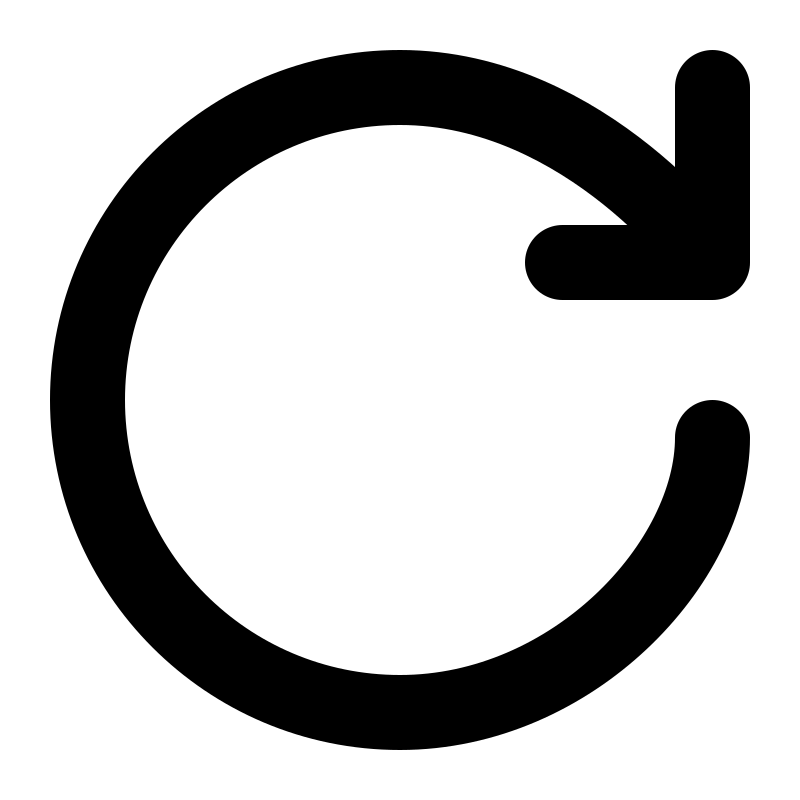
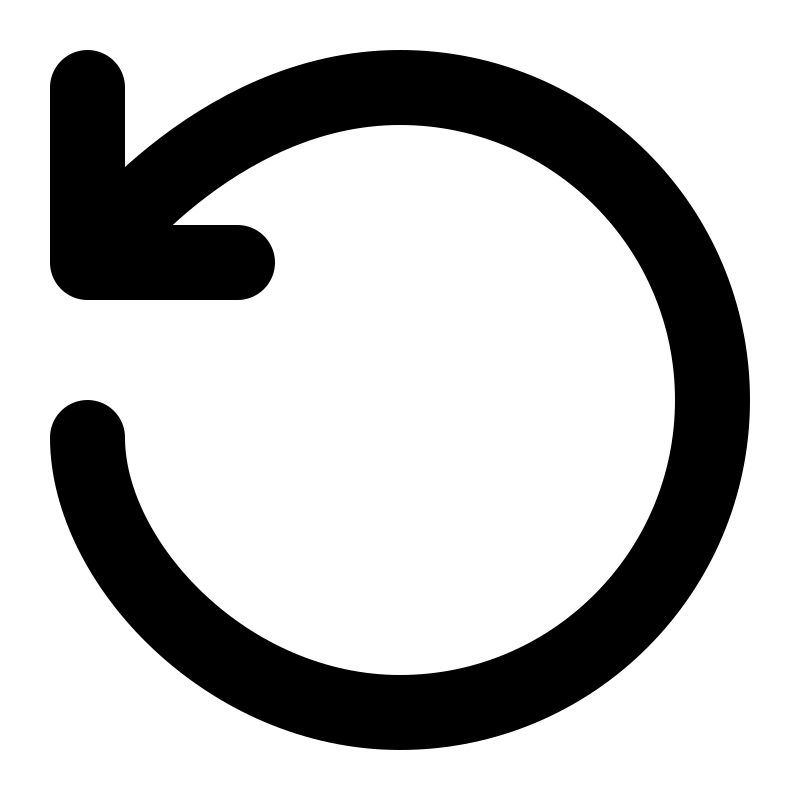
Debug

diff --git a/src/main/java/com/example/demo/client/GameController.java b/src/main/java/com/example/demo/client/GameController.java
@@ -1,5 +1,6 @@
 package com.example.demo.client;
 
+import javafx.application.Platform;
 import javafx.beans.value.ChangeListener;
 import javafx.fxml.FXML;
 import javafx.fxml.Initializable;
@@ -8,7 +9,6 @@ import javafx.scene.image.Image;
 import javafx.scene.image.ImageView;
 import javafx.scene.layout.BorderPane;
 import javafx.scene.layout.HBox;
-import javafx.scene.layout.StackPane;
 import javafx.scene.layout.VBox;
 import org.json.JSONArray;
 import org.json.JSONObject;
@@ -20,44 +20,22 @@ import java.util.List;
 import java.util.ResourceBundle;
 
 public class GameController implements Initializable {
-
-    @FXML
-    private BorderPane rootPane;
-    @FXML
-    private VBox topContainer;
-    @FXML
-    private HBox bottomContainer;
-    @FXML
-    private HBox playerHand;
-    @FXML
-    private VBox leftHand;
-    @FXML
-    private VBox rightHand;
-    @FXML
-    private HBox topHand;
-    @FXML
-    private ImageView pileImage;
-    @FXML
-    private ImageView backCardImage;
+    String playerName = "YourPlayerName4";
+    @FXML private BorderPane rootPane;
+    @FXML private VBox topContainer;
+    @FXML private HBox bottomContainer;
+    @FXML private HBox playerHand;
+    @FXML private VBox leftHand;
+    @FXML private VBox rightHand;
+    @FXML private HBox topHand;
+    @FXML private ImageView pileImage;
+    @FXML private ImageView backCardImage;
     @FXML private ToggleButton unoTogglePlayer;
     @FXML private ToggleButton unoToggleLeft;
     @FXML private ToggleButton unoToggleTop;
     @FXML private ToggleButton unoToggleRight;
+    @FXML private ImageView directionImage;
 
-    @FXML
-    private ImageView directionImage;
-
-
-
-    // UNO indicators
-    @FXML
-    private ImageView unoBottomIndicator;
-    @FXML
-    private ImageView unoTopIndicator;
-    @FXML
-    private ImageView unoLeftIndicator;
-    @FXML
-    private ImageView unoRightIndicator;
 
     private final List<ImageView> allHandCards = new ArrayList<>();
 
@@ -72,69 +50,51 @@ public class GameController implements Initializable {
 
     @Override
     public void initialize(URL location, ResourceBundle resources) {
-
         topContainer.setMaxHeight(CARD_HEIGHT + 20);
         bottomContainer.setMaxHeight(CARD_HEIGHT + 20);
         backCardImage.setImage(new Image(getClass().getResourceAsStream("/images/uno_card-back.png")));
         backCardImage.setFitWidth(CARD_WIDTH);
         backCardImage.setFitHeight(CARD_HEIGHT);
         backCardImage.setStyle("-fx-cursor: hand;");
-        backCardImage.setOnMouseClicked(event -> System.out.println("Deck clicked!"));
+        backCardImage.setOnMouseClicked(event -> {
+            System.out.println("Deck clicked!");
+
+            // Create the JSON payload
+            JSONObject json = new JSONObject();
+            json.put("playerName",  playerName); // Replace with the actual player name
+            json.put("actionType", -5); // The index of the clicked card
+
+            // Send the POST request with the JSON payload
+            try {
+                String response = ApiClient.post("/game/match/makeMove", json.toString());
+                System.out.println("Response from backend: " + response);
+            } catch (IOException e) {
+                e.printStackTrace();
+            }
+
+            event.consume(); // Prevent further propagation
+        });
 
         Boolean isMultiplayer = false;
-        String playerName = "";
 
         JSONObject json = new JSONObject();
         json.put("playerName", playerName);
         json.put("isMultiplayer", isMultiplayer);
         try {
             String response = ApiClient.post("/game/create", String.valueOf(json));
-            System.out.println("Game Creation Successfull: " + response); // debug
+            System.out.println("Game Creation Successful: " + response);
         } catch (Exception e) {
-            System.out.println("Game Creation failed: " + e.getMessage()); // debug
+            System.out.println("Game Creation failed: " + e.getMessage());
         }
 
-        String response= null;
+        // Initial game state
         try {
-            response = ApiClient.get("/game/state");
+            String response = ApiClient.get("/game/state");
+            System.out.println("Initial game state: " + response);
+            updateGameState(new JSONObject(response));
         } catch (IOException e) {
             throw new RuntimeException(e);
         }
-        System.out.println("Game state: " + response);
-
-        JSONObject json2 = new JSONObject(response);
-
-        this.playerCards = jsonArrayToList(json2.getJSONArray("player0CardPaths"));
-        this.leftOpponentCards = jsonArrayToList(json2.getJSONArray("player3CardPaths"));
-        this.topOpponentCards = jsonArrayToList(json2.getJSONArray("player2CardPaths"));
-        this.rightOpponentCards = jsonArrayToList(json2.getJSONArray("player1CardPaths"));
-
-//        JSONObject json2 = new JSONObject(response);
-//
-//        // Access the first card object
-//        JSONObject firstCard = json2.getJSONArray("player0Cards").getJSONObject(0);
-//
-//        // Extract individual values
-//        boolean special = firstCard.getBoolean("special");
-//        String color = firstCard.getString("color");
-//        String value = firstCard.getString("value");
-//
-//        System.out.println("Special: " + special);
-//        System.out.println("Color: " + color);
-//        System.out.println("Value: " + value);
-
-        setDirection(true);
-
-        pileImage.setImage(new Image(getClass().getResourceAsStream("/images/uno_card-yellow2.png")));
-        pileImage.setFitWidth(CARD_WIDTH);
-        pileImage.setFitHeight(CARD_HEIGHT);
-
-
-
-        playerCards.forEach(path -> playerHand.getChildren().add(createCardImageView(path, 0)));
-        leftOpponentCards.forEach(path -> leftHand.getChildren().add(createCardImageView(path, 90)));
-        topOpponentCards.forEach(path -> topHand.getChildren().add(createCardImageView(path, 180)));
-        rightOpponentCards.forEach(path -> rightHand.getChildren().add(createCardImageView(path, -90)));
 
         ChangeListener<Number> resizeListener = (obs, oldVal, newVal) -> applySpacing();
         rootPane.sceneProperty().addListener((obs, oldScene, newScene) -> {
@@ -145,20 +105,99 @@ public class GameController implements Initializable {
             }
         });
 
+        // Start polling game state in a background thread
+        Thread gameStatePollingThread = new Thread(() -> {
+            String lastResponse = null;
+            while (true) {
+                try {
+                    String newResponse = ApiClient.get("/game/state");
+                    if (!newResponse.equals(lastResponse)) {
+                        lastResponse = newResponse;
+                        JSONObject jsonState = new JSONObject(newResponse);
+                        Platform.runLater(() -> {
+                            try {
+                                updateGameState(jsonState);
+                            } catch (Exception e) {
+                                System.out.println("Failed to update game state: " + e.getMessage());
+                            }
+                        });
+                    }
+                    Thread.sleep(1000); // 1 second polling interval
+                } catch (IOException | InterruptedException e) {
+                    System.out.println("Polling error: " + e.getMessage());
+                    break;
+                }
+            }
+        });
+        gameStatePollingThread.setDaemon(true);
+        gameStatePollingThread.start();
     }
 
-    private ImageView createCardImageView(String path, double rotation) {
+    private void updateGameState(JSONObject json2) {
+        this.playerCards = jsonArrayToList(json2.getJSONArray("player0CardPaths"));
+        this.leftOpponentCards = jsonArrayToList(json2.getJSONArray("player3CardPaths"));
+        this.topOpponentCards = jsonArrayToList(json2.getJSONArray("player2CardPaths"));
+        this.rightOpponentCards = jsonArrayToList(json2.getJSONArray("player1CardPaths"));
+
+        setDirection(json2.getInt("direction") == 1);
+        pileImage.setImage(new Image(getClass().getResourceAsStream(json2.getString("pileTopImagePath"))));
+        pileImage.setFitWidth(CARD_WIDTH);
+        pileImage.setFitHeight(CARD_HEIGHT);
+
+        playerHand.getChildren().clear();
+        leftHand.getChildren().clear();
+        topHand.getChildren().clear();
+        rightHand.getChildren().clear();
+
+        for (int i = 0; i < playerCards.size(); i++) {
+            String path = playerCards.get(i);
+            ImageView cardView = createCardImageView(path, 0, true, i);  // Pass the index
+            playerHand.getChildren().add(cardView);
+        }
+
+        leftOpponentCards.forEach(path -> leftHand.getChildren().add(createCardImageView(path, 90, false, 0)));
+        topOpponentCards.forEach(path -> topHand.getChildren().add(createCardImageView(path, 180, false, 0 )));
+        rightOpponentCards.forEach(path -> rightHand.getChildren().add(createCardImageView(path, -90, false, 0)));
+
+        applySpacing();
+    }
+
+    private ImageView createCardImageView(String path, double rotation, boolean isClickable, int index) {
         ImageView iv = new ImageView(new Image(getClass().getResourceAsStream(path)));
         iv.setFitWidth(CARD_WIDTH);
         iv.setFitHeight(CARD_HEIGHT);
         iv.setPreserveRatio(true);
         iv.setSmooth(true);
         iv.setRotate(rotation);
-        iv.setStyle("-fx-cursor: hand;");
-        iv.setOnMouseClicked(event -> System.out.println("Card clicked: " + path));
+        iv.setPickOnBounds(true);
+        iv.setMouseTransparent(false);
+        iv.toFront();
+        iv.setStyle(isClickable ? "-fx-cursor: hand;" : "-fx-cursor: default;");
+
+        // Add event handler to capture the index of the clicked card
+        iv.setOnMouseClicked(event -> {
+            System.out.println("Card clicked! Index: " + index + ", Path: " + path);
+
+            // Create the JSON payload
+            JSONObject json = new JSONObject();
+            json.put("playerName",  playerName); // Replace with the actual player name
+            json.put("actionType", index); // The index of the clicked card
+
+            // Send the POST request with the JSON payload
+            try {
+                String response = ApiClient.post("/game/match/makeMove", json.toString());
+                System.out.println("Response from backend: " + response);
+            } catch (IOException e) {
+                e.printStackTrace();
+            }
+
+            event.consume(); // Prevent further propagation
+        });
+
         allHandCards.add(iv);
         return iv;
     }
+
 
     private void applySpacing() {
         adjustSpacingHBox(playerHand, playerCards.size());
@@ -187,48 +226,31 @@ public class GameController implements Initializable {
         box.setSpacing(spacing);
     }
 
-
-
-    private void setDirection(boolean clockwise) {
-        String imagePath = clockwise ? "/images/arrow_cw.png" : "/images/arrow_ccw.png";
+    private void setDirection(boolean counterclockwise) {
+        String imagePath = counterclockwise ? "/images/arrow_ccw.png" : "/images/arrow_cw.png";
         directionImage.setImage(new Image(getClass().getResourceAsStream(imagePath)));
         directionImage.setPreserveRatio(true);
         directionImage.setSmooth(true);
     }
 
-    @FXML
-    public void onSkipClicked() {
-        ;
+    @FXML public void onSkipClicked() {
+        System.out.println("Skip button clicked");
     }
 
-    @FXML
-    public void onWildClicked() {
-        ;
+    @FXML public void onWildClicked() {
+        System.out.println("Wild button clicked");
     }
 
-    @FXML
-    public void onReverseClicked() {
-        ;
+    @FXML public void onReverseClicked() {
+        System.out.println("Reverse button clicked");
     }
 
-    @FXML
-    public void onDraw2Clicked() {
-        ;
+    @FXML public void onDraw2Clicked() {
+        System.out.println("Draw 2 button clicked");
     }
 
-    @FXML
-    public void onWildDraw4Clicked() {
-        ;
-    }
-
-
-    @FXML
-    public void onUnoTogglePlayer() {
-        boolean declaredUno = unoTogglePlayer.isSelected();
-        unoTogglePlayer.setStyle(declaredUno
-                ? "-fx-background-color: green; -fx-text-fill: white; -fx-font-weight: bold;"
-                : "-fx-background-color: red; -fx-text-fill: white; -fx-font-weight: bold;");
-        System.out.println(declaredUno ? "You declared UNO!" : "You revoked UNO!");
+    @FXML public void onWildDraw4Clicked() {
+        System.out.println("Wild Draw 4 button clicked");
     }
 
     private List<String> jsonArrayToList(JSONArray array) {
@@ -238,5 +260,4 @@ public class GameController implements Initializable {
         }
         return list;
     }
-
 }
